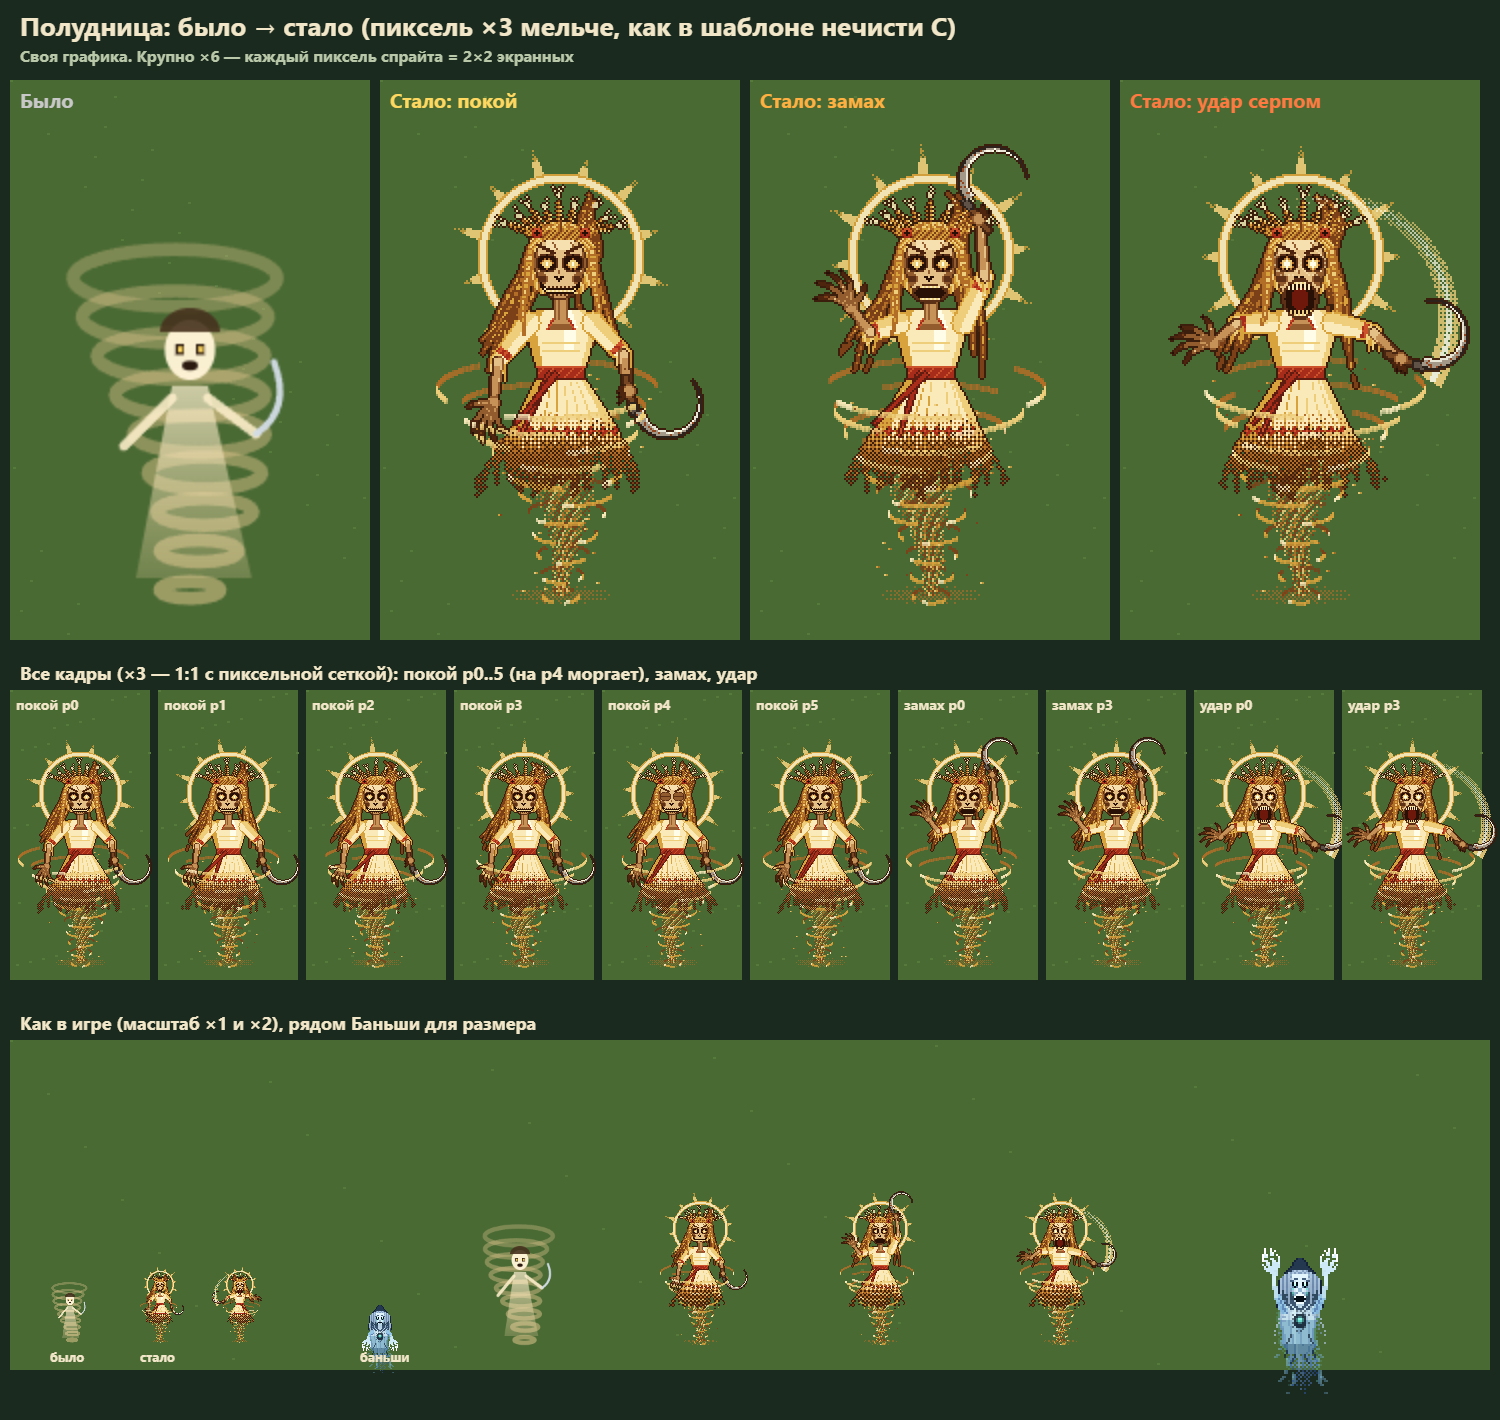
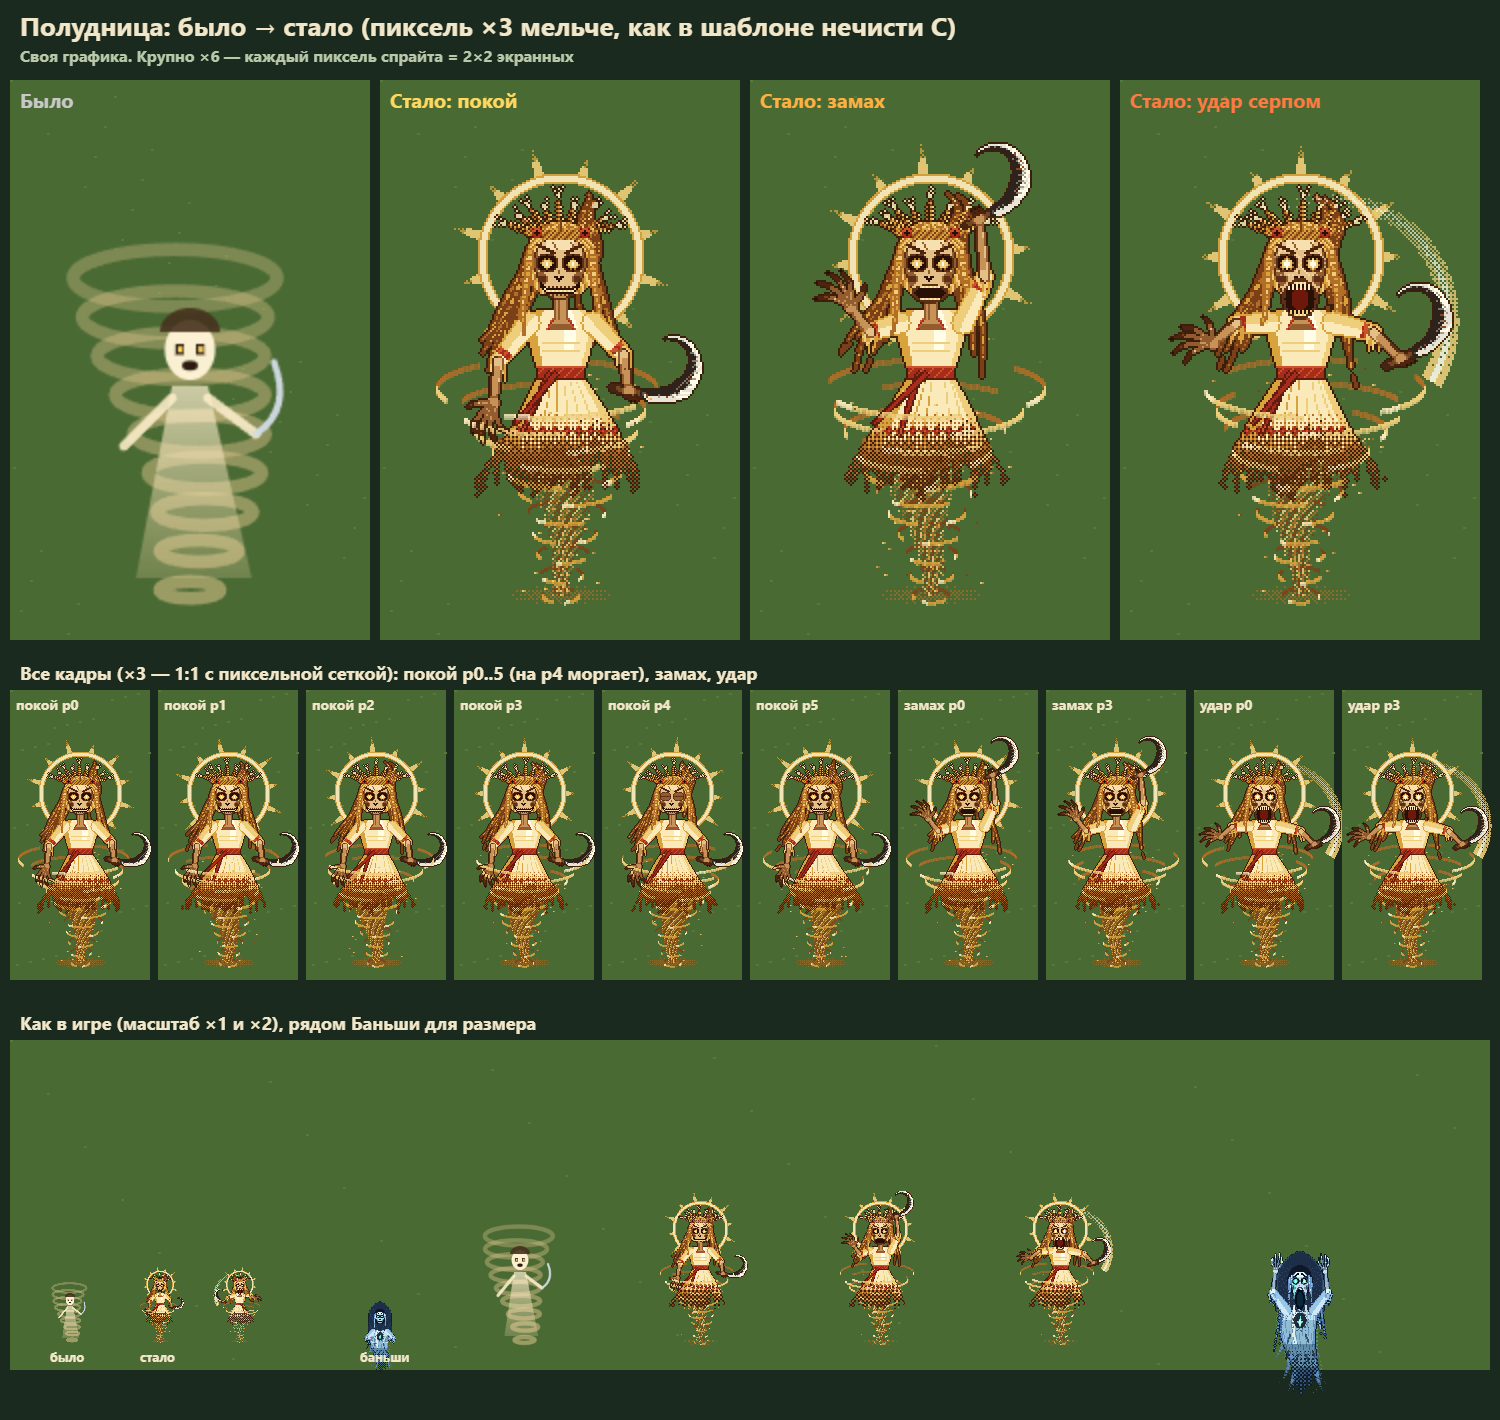
Полудница: серп изогнут крюком, рукоять поперёк кулака
- Клинок идёт от кольца вперёд и закручивается полумесяцем (~200°), шире всего в первой трети, жало на вогнутой стороне.
- Рукоять держится поперёк предплечья, когти обхватывают её; остальное не тронуто.

diff --git a/js/world/fairy2.js b/js/world/fairy2.js
@@ -824,6 +824,7 @@ function fzNoonPx(lv, p) {
     // костлявое предплечье
     L(ex, ey, hx, hy, 3, 2.2, (t, e, sd) => e ? (sd * s > 0 ? S0 : S1) : t < 0.12 ? S3 : sd * s < -30 ? S3 : S2);
     R(hx - 4, hy - 4, hx + 4, hy + 4, (x, y) => { const d = (x - hx) ** 2 + (y - hy) ** 2; return d <= 12 ? (d > 8 ? S1 : S2) : null; });
+    return [ex, ey];
   };
   const claw = (hx, hy, dir, side) => {                                               // ладонь, четыре пальца веером и большой, длинные загнутые когти
     for (const j of [-1.5, -0.5, 0.5, 1.5, -3.2]) {
@@ -838,23 +839,27 @@ function fzNoonPx(lv, p) {
       L(x2, y2, x2 + Math.cos(a3) * cl, y2 + Math.sin(a3) * cl, 1.2, 0.2, (t, e) => t > 0.8 ? K0 : e ? K1 : t < 0.4 ? K2 : K1);
     }
   };
+  // серп: рукоять поперёк кулака, от кольца клинок идёт вперёд и закручивается крюком (кривизна растёт к острию), шире всего в первой трети
   const sickle = (hx, hy, a) => {
     const ux = Math.cos(a), uy = Math.sin(a);
-    let nx = uy, ny = -ux; if (nx < 0) { nx = -nx; ny = -ny; }
-    L(hx - ux * 7, hy - uy * 7, hx + ux * 9, hy + uy * 9, 2.2, 2, (t, e) => e ? [70, 38, 18] : t > 0.3 && t < 0.4 ? [70, 38, 18] : [118, 70, 34]);   // рукоять
-    L(hx + ux * 8, hy + uy * 8, hx + ux * 11, hy + uy * 11, 2.4, 2.4, (t, e) => e ? I0 : I1);                                                        // кольцо
-    const bx = hx + ux * 11, by = hy + uy * 11, Rr = 17, cx = bx + nx * Rr, cy = by + ny * Rr, a0 = Math.atan2(by - cy, bx - cx);
-    const sg = (-Math.sin(a0) * ux + Math.cos(a0) * uy) > 0 ? 1 : -1, SW = 3.7;
-    R(cx - Rr - 2, cy - Rr - 2, cx + Rr + 2, cy + Rr + 2, (x, y) => {
-      const dx = x - cx, dy = y - cy, d = Math.sqrt(dx * dx + dy * dy);
-      let da = (Math.atan2(dy, dx) - a0) * sg; da = ((da % (Math.PI * 2)) + Math.PI * 2) % (Math.PI * 2);
-      if (da > SW) return null;
-      const t = da / SW, w = 5 * (1 - t) + 0.6;
-      if (d > Rr + 0.5 || d < Rr + 0.5 - w) return null;
-      if (d > Rr - 0.6) return I0;                                                        // обух
-      if (d < Rr + 1.5 - w) return t > 0.3 && t < 0.75 && hsh(x * 3 + y) > 0.6 ? K7 : I3;  // жало блестит на солнце
-      return hsh(x * 7 + y * 13) > 0.82 ? RU : I2;                                        // ржа
-    });
+    L(hx - ux * 8, hy - uy * 8, hx + ux * 9, hy + uy * 9, 2.2, 2, (t, e) => e ? [70, 38, 18] : t < 0.08 ? [70, 38, 18] : [118, 70, 34]);   // рукоять
+    L(hx + ux * 8.5, hy + uy * 8.5, hx + ux * 11, hy + uy * 11, 2.5, 2.5, (t, e) => e ? I0 : I1);                                          // кольцо
+    const sg = -Math.sin(a + Math.PI / 2) > -Math.sin(a - Math.PI / 2) ? 1 : -1, N = 40, pts = [];
+    let x = hx + ux * 11, y = hy + uy * 11, d = a;
+    for (let i = 0; i <= N; i++) {
+      const t = i / N, w = t < 0.3 ? 3 + t * 5.5 : 4.65 * (1 - (t - 0.3) / 0.7) + 0.25;
+      pts.push([x, y, w]);
+      d += sg * (0.055 + 0.07 * t); x += Math.cos(d) * 1.35; y += Math.sin(d) * 1.35;
+    }
+    for (let i = 1; i < pts.length; i++) {
+      const [x0, y0, w0] = pts[i - 1], [x1, y1, w1] = pts[i], t0 = (i - 1) / N;
+      L(x0, y0, x1, y1, w0, w1, (t, e, sd) => {
+        const inner = sd * sg > 0;
+        if (e && !inner) return I0;                                                     // обух
+        if (e && inner) return t0 > 0.25 && t0 < 0.8 && hsh(x0 * 3 + y0) > 0.55 ? K7 : I3;   // жало блестит на солнце
+        return hsh(Math.round(x0) * 7 + Math.round(y0) * 13 + (sd > 0 ? 1 : 0)) > 0.86 ? RU : inner ? I2 : [128, 116, 102];   // ржа
+      });
+    }
   };
   // дальняя (левая) рука — когтистая пятерня
   arm(-1, pose.L);
@@ -935,11 +940,12 @@ function fzNoonPx(lv, p) {
   for (let k = 0; k < 4; k++) strand(k, false);
 
   // ---- ближняя (правая) рука с серпом
-  arm(1, pose.R);
-  sickle(pose.R[0], pose.R[1], pose.R[2]);
+  const [rex, rey] = arm(1, pose.R), fa = Math.atan2(pose.R[1] - rey, pose.R[0] - rex);
+  const ha = [fa + Math.PI / 2 - 0.35, fa - Math.PI / 2 + 0.35].reduce((b, c) => Math.cos(c) * 0.6 - Math.sin(c) > Math.cos(b) * 0.6 - Math.sin(b) ? c : b);   // рукоять поперёк кулака, вперёд-вверх
+  sickle(pose.R[0], pose.R[1], ha);
   R(pose.R[0] - 4, pose.R[1] - 4, pose.R[0] + 4, pose.R[1] + 4, (x, y) => { const d = (x - pose.R[0]) ** 2 + (y - pose.R[1]) ** 2; return d <= 10 ? (d > 6 ? S1 : S2) : null; });   // кулак на рукояти
   for (const j of [-1, 0, 1]) {                                                       // когти поверх рукояти
-    const a = pose.R[2] + Math.PI / 2, x = pose.R[0] + Math.cos(pose.R[2]) * j * 2.2 + Math.cos(a) * 3, y = pose.R[1] + Math.sin(pose.R[2]) * j * 2.2 + Math.sin(a) * 3;
+    const a = fa, x = pose.R[0] + Math.cos(ha) * j * 2.2 + Math.cos(a) * 2.5, y = pose.R[1] + Math.sin(ha) * j * 2.2 + Math.sin(a) * 2.5;
     L(x, y, x + Math.cos(a - 0.6) * 4, y + Math.sin(a - 0.6) * 4, 1, 0.2, t => t > 0.7 ? K0 : K1);
   }
 
